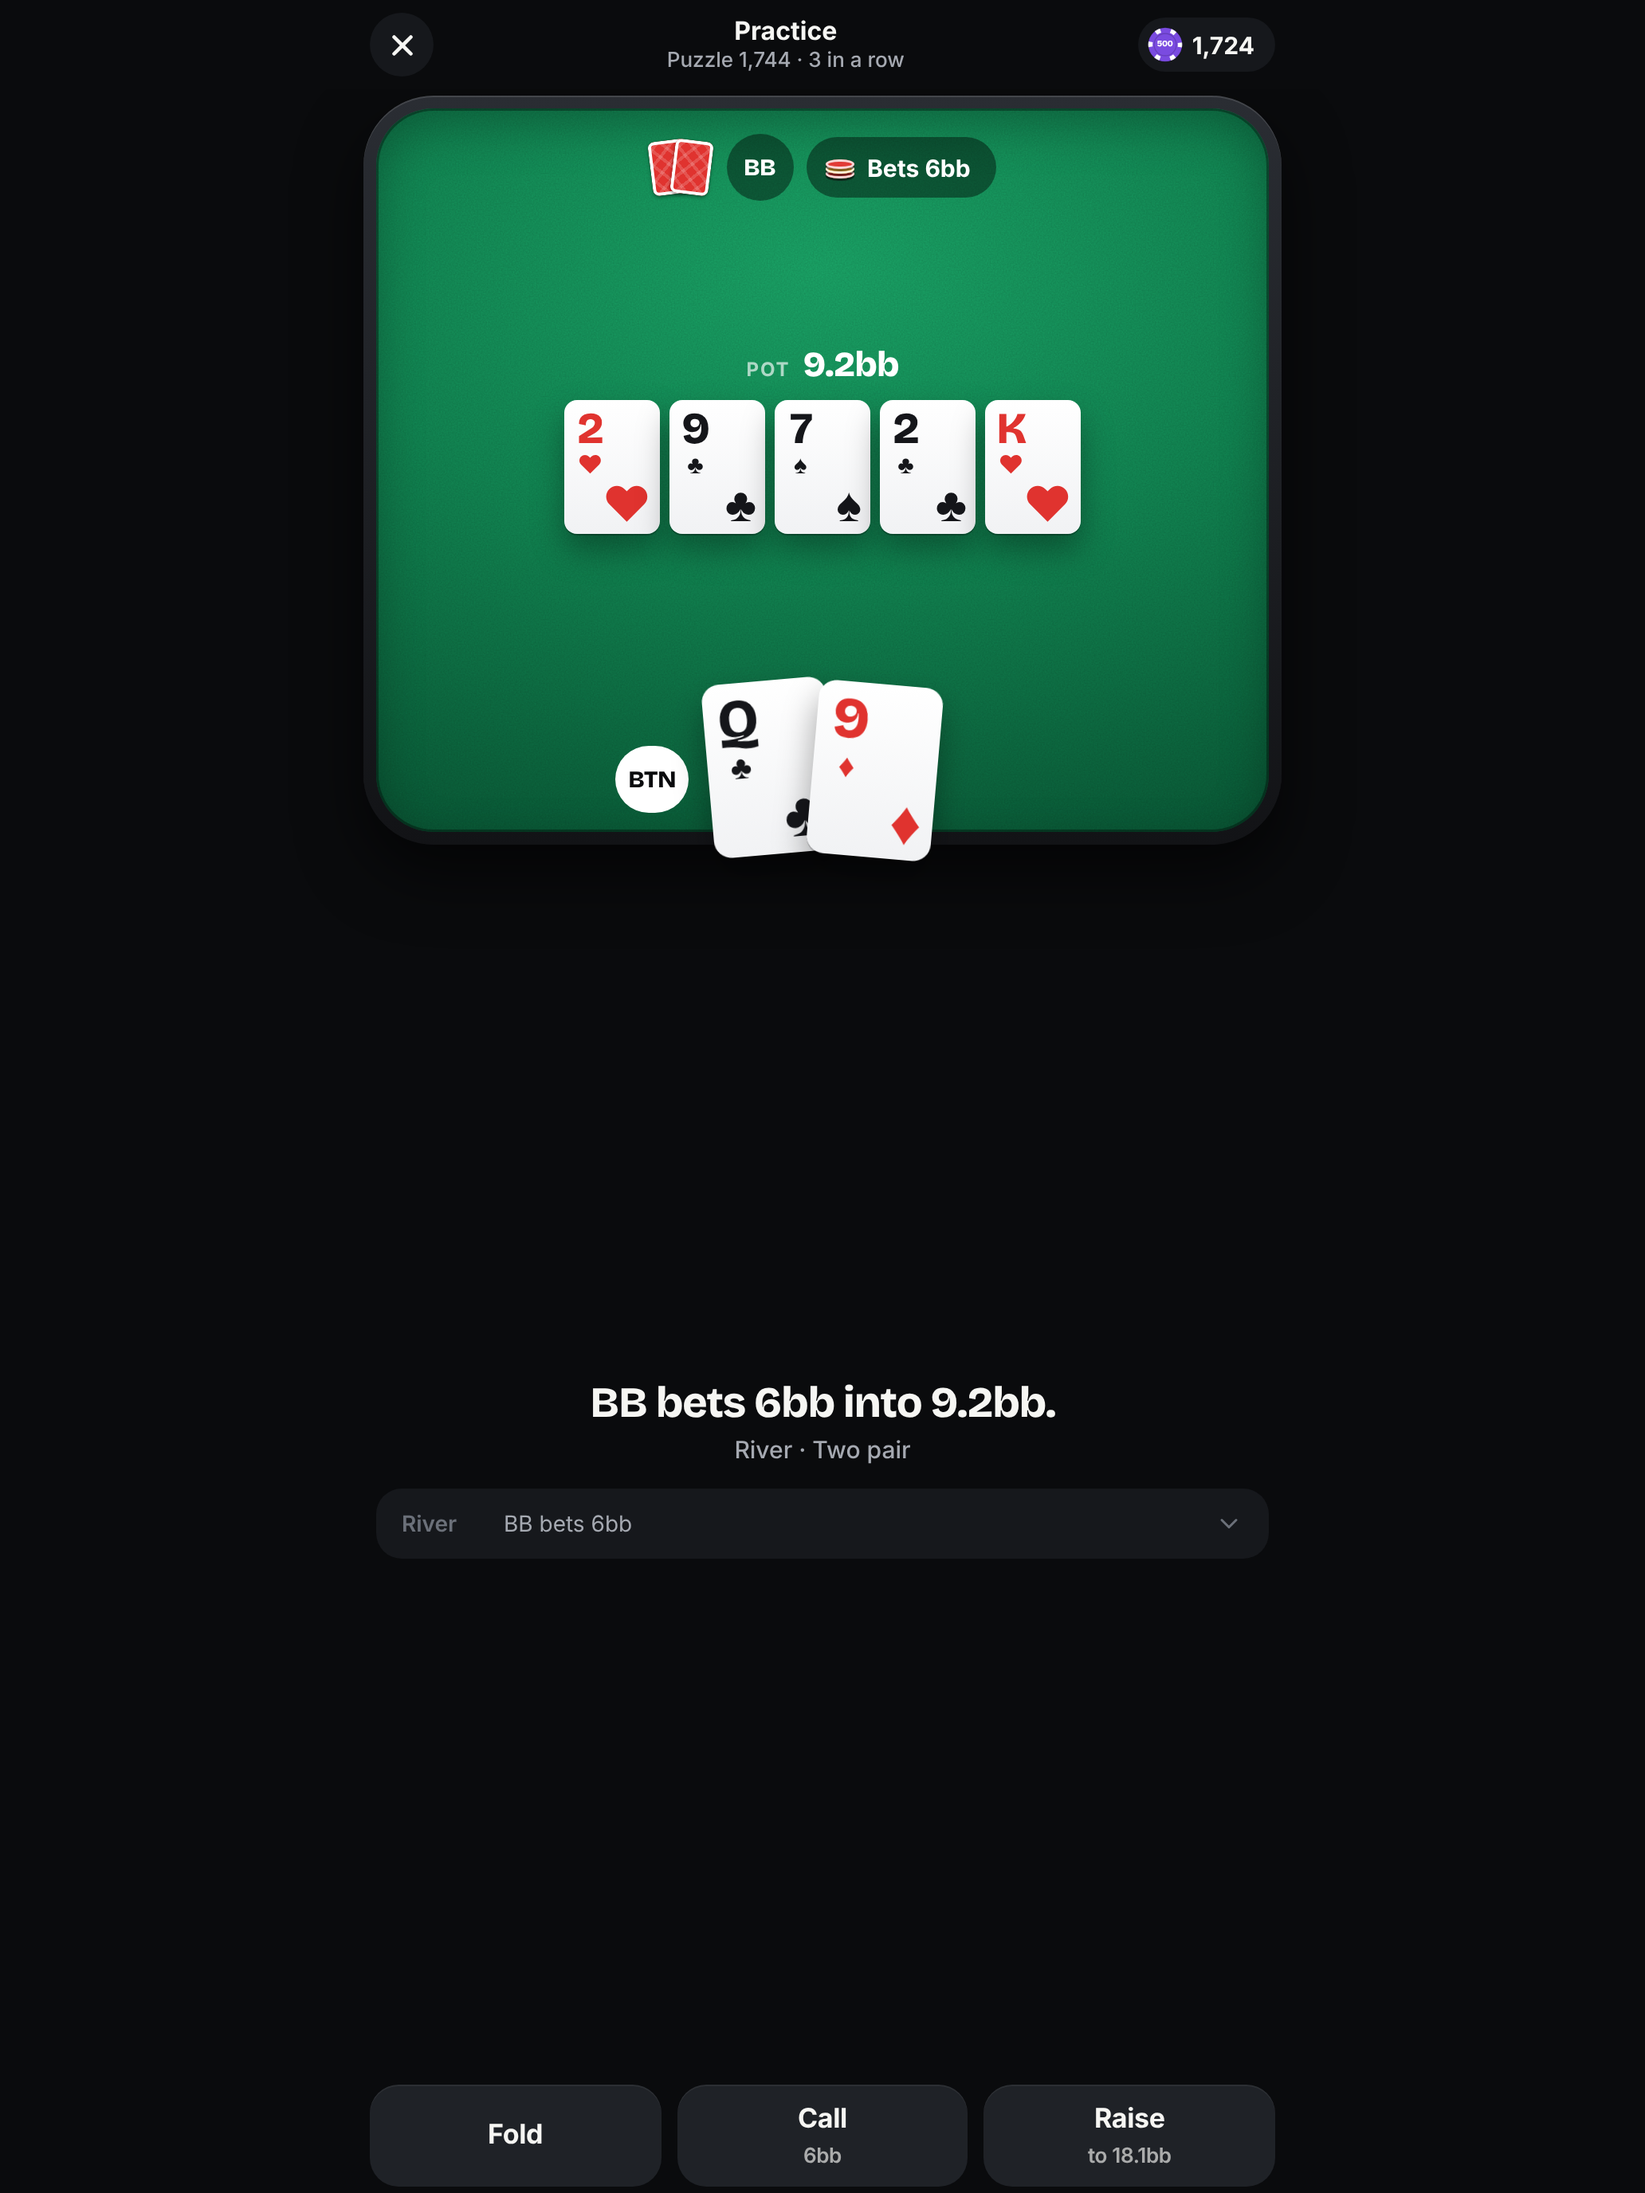
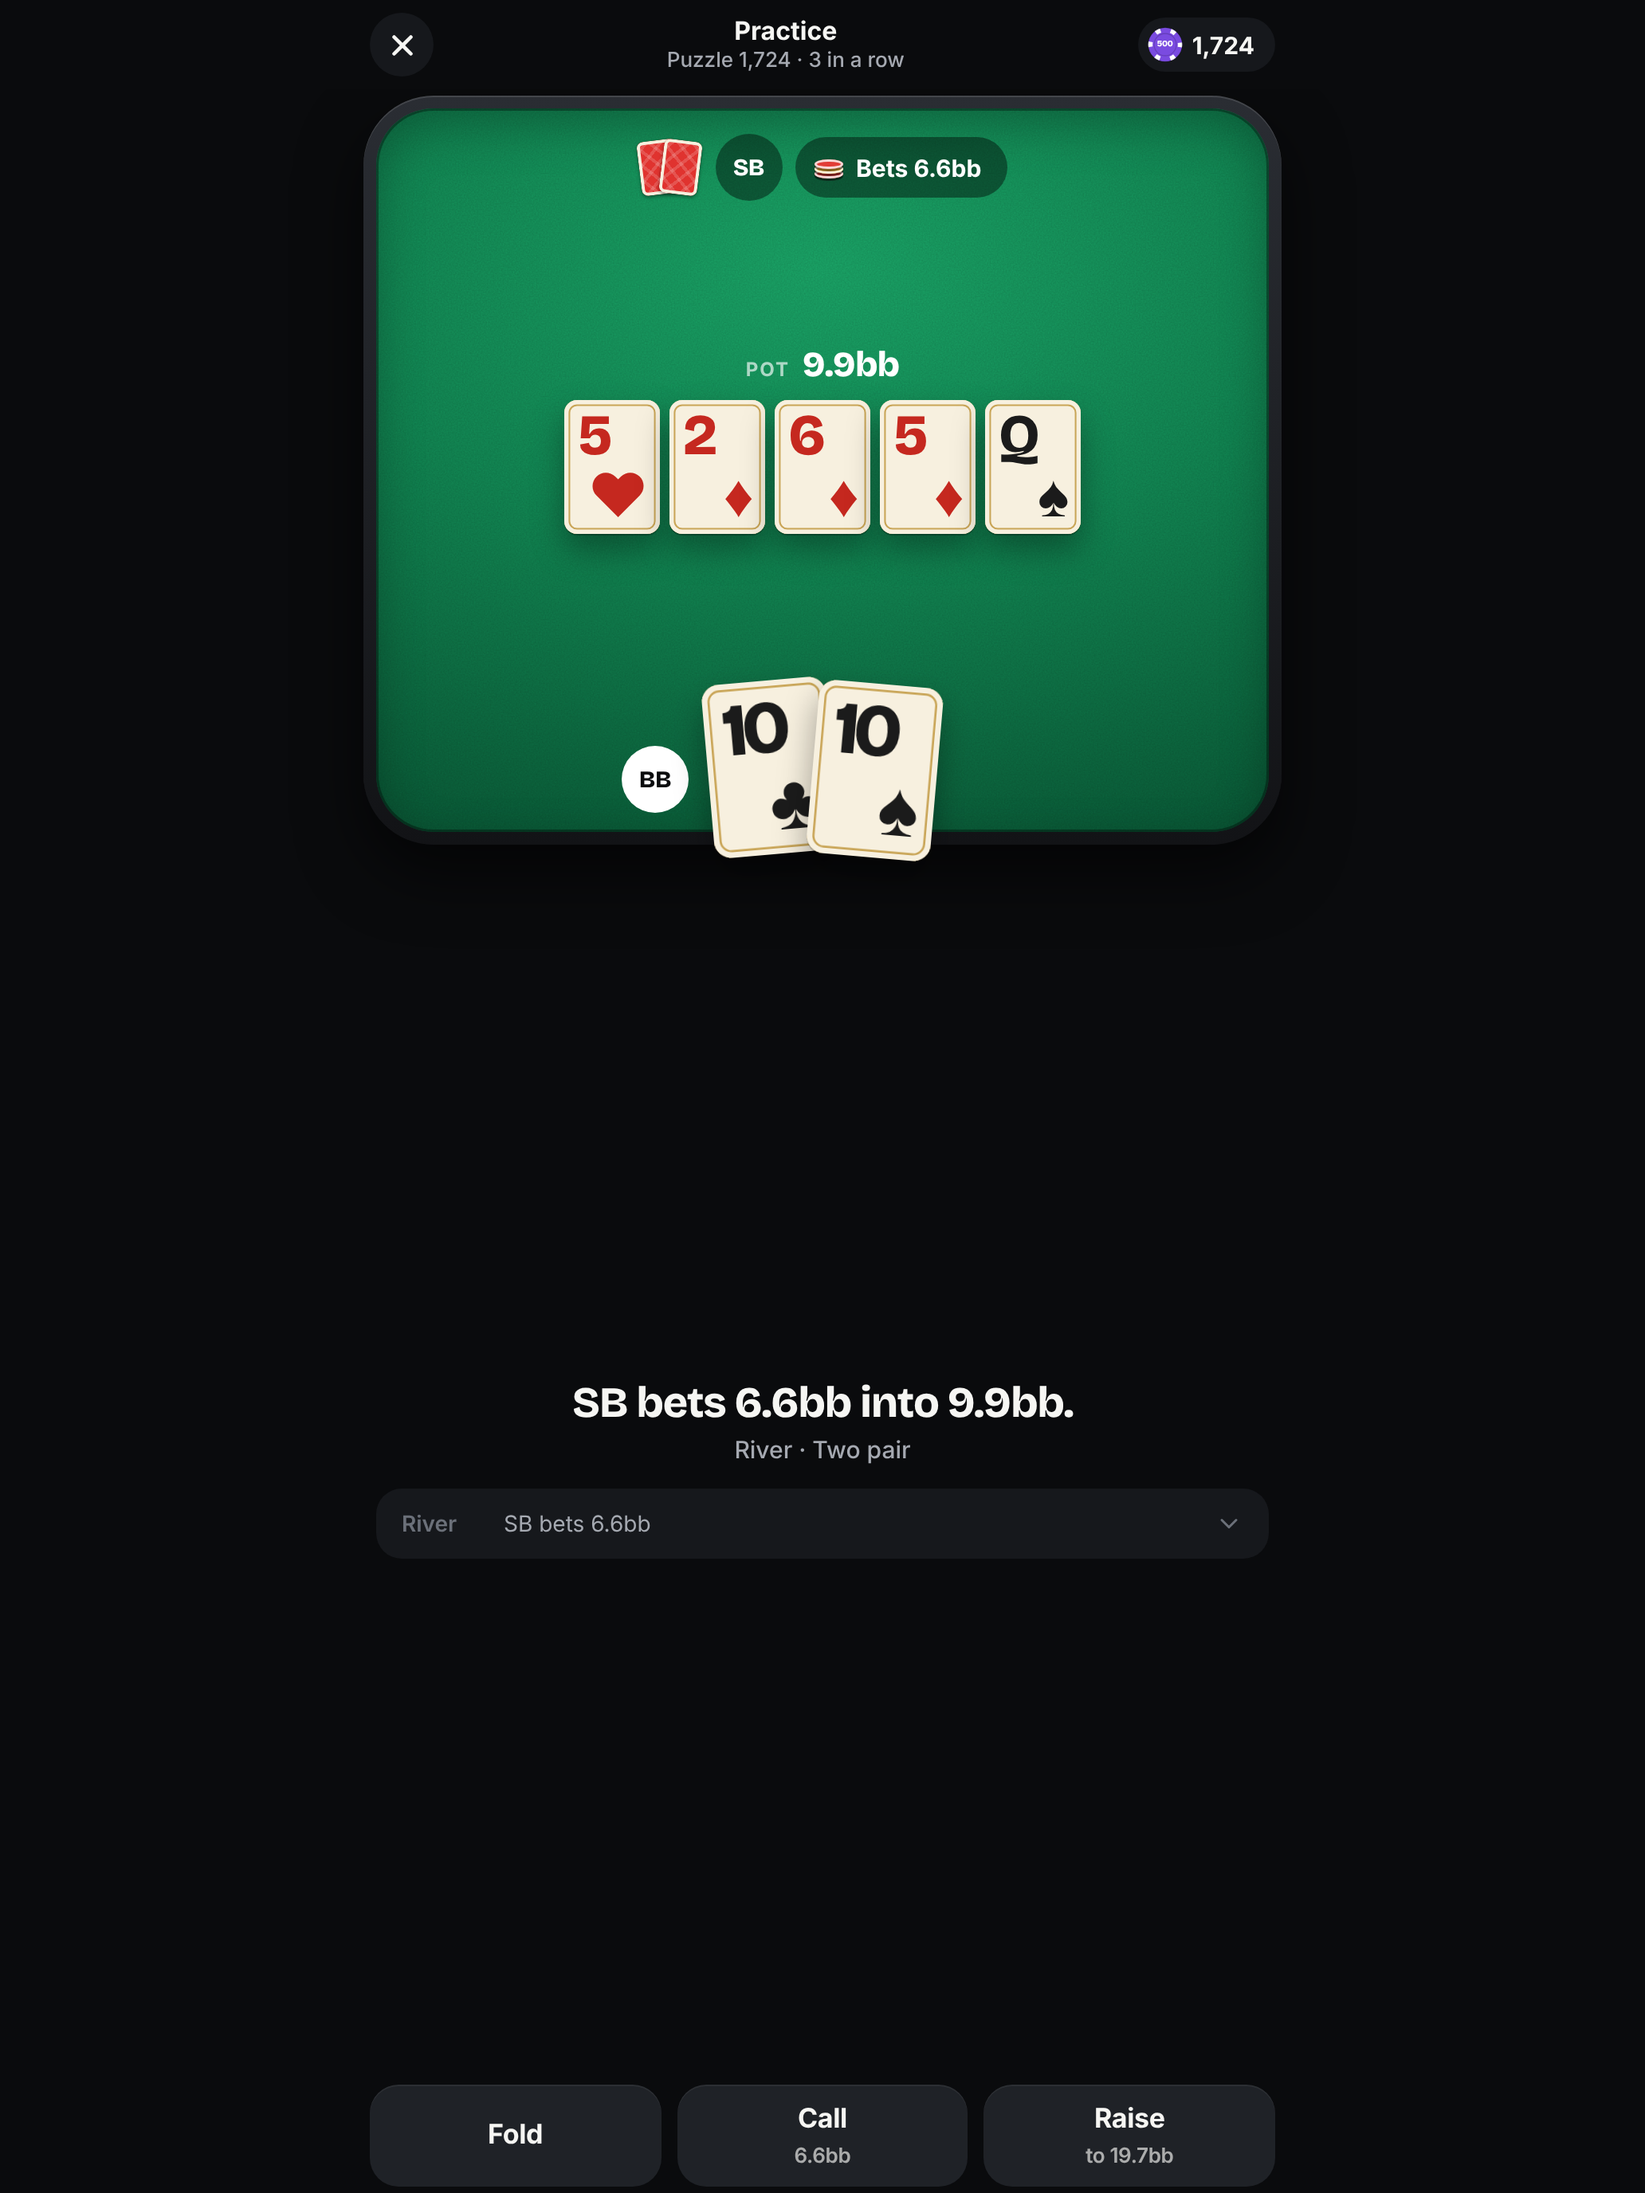
Phone app: ivory card deck
Cards are now ivory stock with a fine gold line, one heavy oversized
rank and one big suit. Backs, result cards and the app icon use the
same stock. App Store screenshots regenerated.

Claude-Session: https://claude.ai/code/session_01JXJcZkyA8dKSXi6WtVxgm7

diff --git a/src/mobile/ui.tsx b/src/mobile/ui.tsx
@@ -88,9 +88,11 @@ export function Seal({ ok, size = 42 }: { ok: boolean; size?: number }) {
 
 /* ------------------------------------------------------------------ cards */
 const SUIT = ['♠', '♥', '♦', '♣'];
-const SUIT_COLOR = ['#15161a', '#e0332f', '#e0332f', '#15161a'];
 
 /** A playing card: white, one heavy rank, one big suit. Readable at any size. */
+/** The card stock: faces, back borders and result cards all share it. */
+export const IVORY = '#f7f0df';
+
 export function MCard({ card, w = 54, hidden = false, dim = false, className = '', style }: { card?: Card | null; w?: number; hidden?: boolean; dim?: boolean; className?: string; style?: CSSProperties }) {
   const h = Math.round(w * 1.4);
   const r = Math.max(4, Math.round(w * 0.14));
@@ -106,7 +108,7 @@ export function MCard({ card, w = 54, hidden = false, dim = false, className = '
           borderRadius: r,
           background: '#e0332f',
           backgroundImage: 'repeating-linear-gradient(45deg, rgba(255,255,255,.16) 0 2px, transparent 2px 7px), repeating-linear-gradient(-45deg, rgba(255,255,255,.16) 0 2px, transparent 2px 7px)',
-          boxShadow: `inset 0 0 0 ${b}px #fff, ${shadow}`,
+          boxShadow: `inset 0 0 0 ${b}px ${IVORY}, ${shadow}`,
           ...style,
         }}
       />
@@ -114,13 +116,15 @@ export function MCard({ card, w = 54, hidden = false, dim = false, className = '
   }
   const rank = RANKS[rankOf(card)];
   const s = suitOf(card);
+  const big = w >= 40;
+  // Ivory stock, a fine gold line, one heavy rank and one big suit.
+  const line = big ? `inset 0 0 0 ${w * 0.045}px ${IVORY}, inset 0 0 0 ${w * 0.062}px #c9a557, ` : '';
   return (
-    <div className={`relative shrink-0 overflow-hidden ${className}`} style={{ width: w, height: h, borderRadius: r, background: 'linear-gradient(180deg,#ffffff,#f1f2f4)', color: SUIT_COLOR[s], boxShadow: shadow, opacity: dim ? 0.4 : 1, ...style }}>
-      <span className="absolute flex flex-col items-center leading-none" style={{ left: w * 0.1, top: w * 0.09, minWidth: w * 0.34 }}>
-        <span className="f-disp font-extrabold" style={{ fontSize: w * (w >= 40 ? 0.46 : 0.52), lineHeight: 0.95, letterSpacing: rank === 'T' ? '-.09em' : '-.03em' }}>{rank === 'T' ? '10' : rank}</span>
-        {w >= 40 && <span style={{ fontSize: w * 0.26, lineHeight: 1, marginTop: w * 0.02 }}>{SUIT[s]}</span>}
+    <div className={`relative shrink-0 overflow-hidden ${className}`} style={{ width: w, height: h, borderRadius: r, background: IVORY, color: s === 1 || s === 2 ? '#c5281f' : '#1b1b1b', boxShadow: line + shadow, opacity: dim ? 0.4 : 1, ...style }}>
+      <span className="f-disp absolute font-extrabold" style={{ left: w * (big ? 0.14 : 0.12), top: w * (big ? 0.11 : 0.08), fontSize: w * (big ? 0.6 : 0.54), lineHeight: 0.9, letterSpacing: rank === 'T' ? '-.1em' : '-.04em' }}>
+        {rank === 'T' ? '10' : rank}
       </span>
-      <span className="absolute leading-none" style={{ right: w * 0.09, bottom: w * 0.07, fontSize: w * (w >= 40 ? 0.5 : 0.56) }}>
+      <span className="absolute leading-none" style={{ right: w * (big ? 0.12 : 0.08), bottom: w * (big ? 0.1 : 0.06), fontSize: w * (big ? 0.62 : 0.56) }}>
         {SUIT[s]}
       </span>
     </div>

diff --git a/src/mobile/runs.tsx b/src/mobile/runs.tsx
@@ -14,7 +14,7 @@ import { useStore } from '../store.ts';
 import { Player } from './Player.tsx';
 import { puzzleOutcome, puzzleView, questionOutcome, questionView } from './spot.ts';
 import { DrillChip, THEME_META } from './meta.tsx';
-import { Bar, Btn, Confetti, Countdown, MCard, RatingPill, Seal } from './ui.tsx';
+import { Bar, Btn, Confetti, Countdown, IVORY, MCard, RatingPill, Seal } from './ui.tsx';
 
 export function useBank() {
   const bank = usePuzzles((s) => s.bank);
@@ -176,7 +176,7 @@ function DailyDone({ day, results }: { day: number; results: boolean[] }) {
             {score === 3 && <Confetti n={40} />}
             <div className="flex justify-center">
               {[0, 1, 2].map((i) => (
-                <div key={i} className="m-flip grid h-[112px] w-[80px] place-items-center rounded-[11px] bg-white" style={{ ['--i' as string]: i, marginLeft: i ? -8 : 0, zIndex: i === 1 ? 2 : 1, transform: `rotate(${(i - 1) * 9}deg) translateY(${i === 1 ? -8 : 0}px)`, boxShadow: '0 10px 22px rgba(0,0,0,.4)' }}>
+                <div key={i} className="m-flip grid h-[112px] w-[80px] place-items-center rounded-[11px]" style={{ background: IVORY, ['--i' as string]: i, marginLeft: i ? -8 : 0, zIndex: i === 1 ? 2 : 1, transform: `rotate(${(i - 1) * 9}deg) translateY(${i === 1 ? -8 : 0}px)`, boxShadow: '0 10px 22px rgba(0,0,0,.4)' }}>
                   <Seal ok={!!results[i]} size={46} />
                 </div>
               ))}

diff --git a/src/mobile/Today.tsx b/src/mobile/Today.tsx
@@ -8,7 +8,7 @@ import { tierOf } from '../puzzles/ranks.ts';
 import { usePuzzles } from '../puzzles/store.ts';
 import { useUnits } from '../settings.ts';
 import { useStore } from '../store.ts';
-import { Badge, Bar, Btn, Countdown, IconBadge, List, MCard, Row, Seal, Section, Sparkline, TierChip } from './ui.tsx';
+import { Badge, Bar, Btn, Countdown, IconBadge, IVORY, List, MCard, Row, Seal, Section, Sparkline, TierChip } from './ui.tsx';
 
 /** Today's three hands: face down until played, then turned over to a tick or a cross. */
 function DailyCards({ results }: { results: boolean[] }) {
@@ -24,7 +24,7 @@ function DailyCards({ results }: { results: boolean[] }) {
             {r === undefined ? (
               <MCard hidden w={w} style={{ transform: tilt }} />
             ) : (
-              <div className="m-flip grid place-items-center" style={{ ['--i' as string]: i, width: w, height: Math.round(w * 1.4), borderRadius: 9, transform: tilt, background: '#fff', boxShadow: '0 10px 20px rgba(0,0,0,.35)' }}>
+              <div className="m-flip grid place-items-center" style={{ ['--i' as string]: i, width: w, height: Math.round(w * 1.4), borderRadius: 9, transform: tilt, background: IVORY, boxShadow: '0 10px 20px rgba(0,0,0,.35)' }}>
                 <Seal ok={r} size={38} />
               </div>
             )}

diff --git a/docs/DESIGN.md b/docs/DESIGN.md
@@ -26,7 +26,7 @@ The card-room idea, executed like a modern App Store game. One rule per element,
 - **The table is the hero.** One saturated felt green inside a dark rail (`.m-rail > .m-felt`). It appears only where you play: the puzzle screen, the Daily Hand, the result card, the My Game empty state.
 - **Colour means something.** White is the primary button. Amber (`--gold`) is rating and streak. Green (`--go`) is right, red (`--bad`) is wrong. Theme icons are tinted rounded squares (`IconBadge`).
 - **Type.** Bricolage Grotesque 700–800 for display and every number; Inter for body. Scale: `.f-hero .f-display .f-title .f-head .f-body .f-ui .f-small .f-caps`.
-- **Cards and chips.** White cards with a heavy rank and a large suit; red crosshatch backs. Flat, vivid chips mark rank.
+- **Cards and chips.** Ivory stock with a fine gold line, one heavy oversized rank top-left and one big suit bottom-right; red crosshatch backs with an ivory border. Flat, vivid chips mark rank.
 - **Feedback.** Answering slides up a sheet coloured by the result, with a one-line reason, "Why?" for the detail and one Continue button.
 - **Chrome.** Four-tab translucent bar with line icons; large left-aligned screen titles.
 
